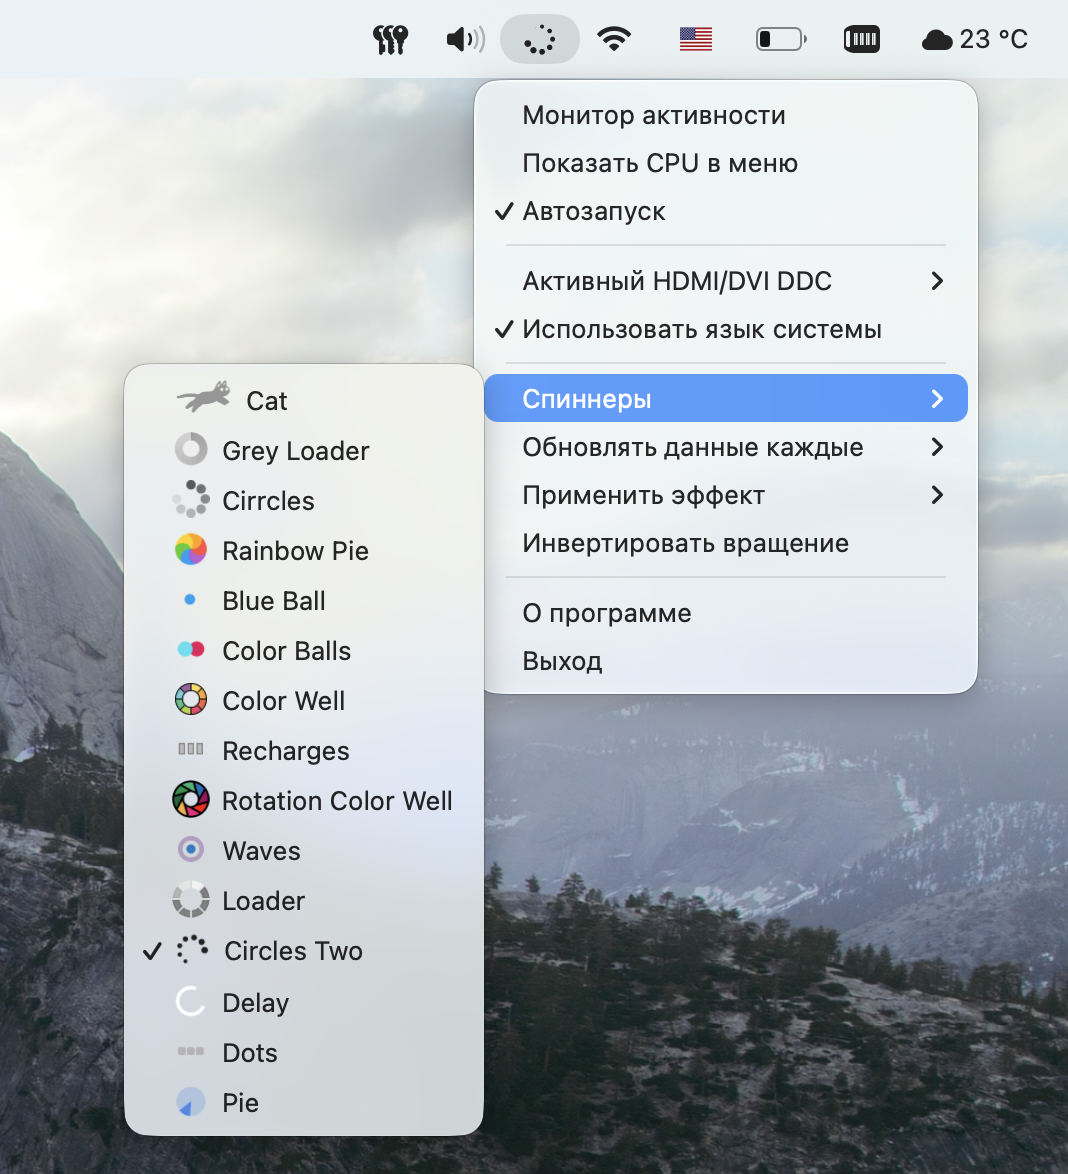
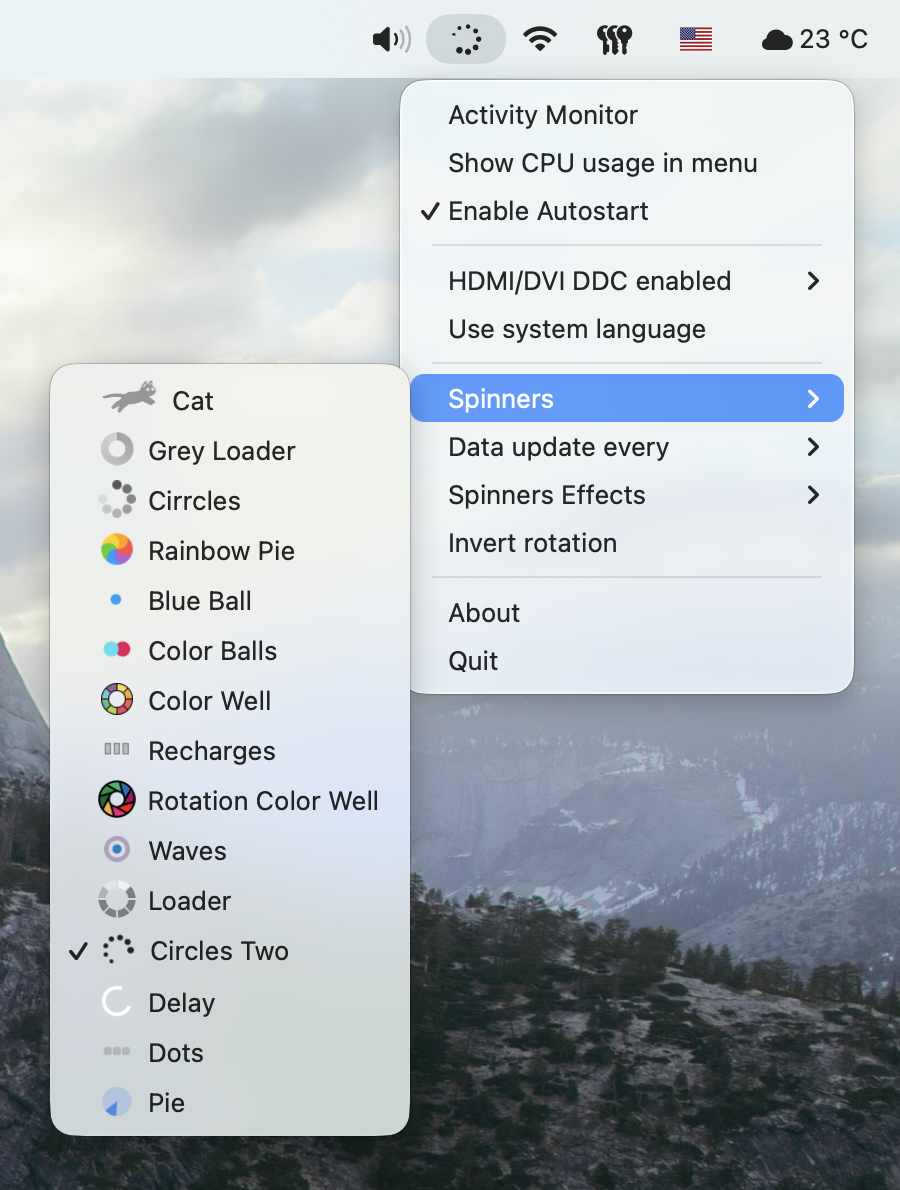
Update readme and screenshots

diff --git a/README.md b/README.md
@@ -20,13 +20,7 @@ System Spinner provides macOS system information in status bar. Minimal, small a
 ## Screenshots
 ![spin_menu](Pictures/spin_menu.jpg)
 
-<details>
-![spinner](Pictures/spinner.jpg)  
 ![menu](Pictures/main_menu.jpg)
-![main_window](Pictures/main_window.jpg)
-![spin_menu](Pictures/spin_menu.jpg)
-
-</details>
   
 ## Tech
 
